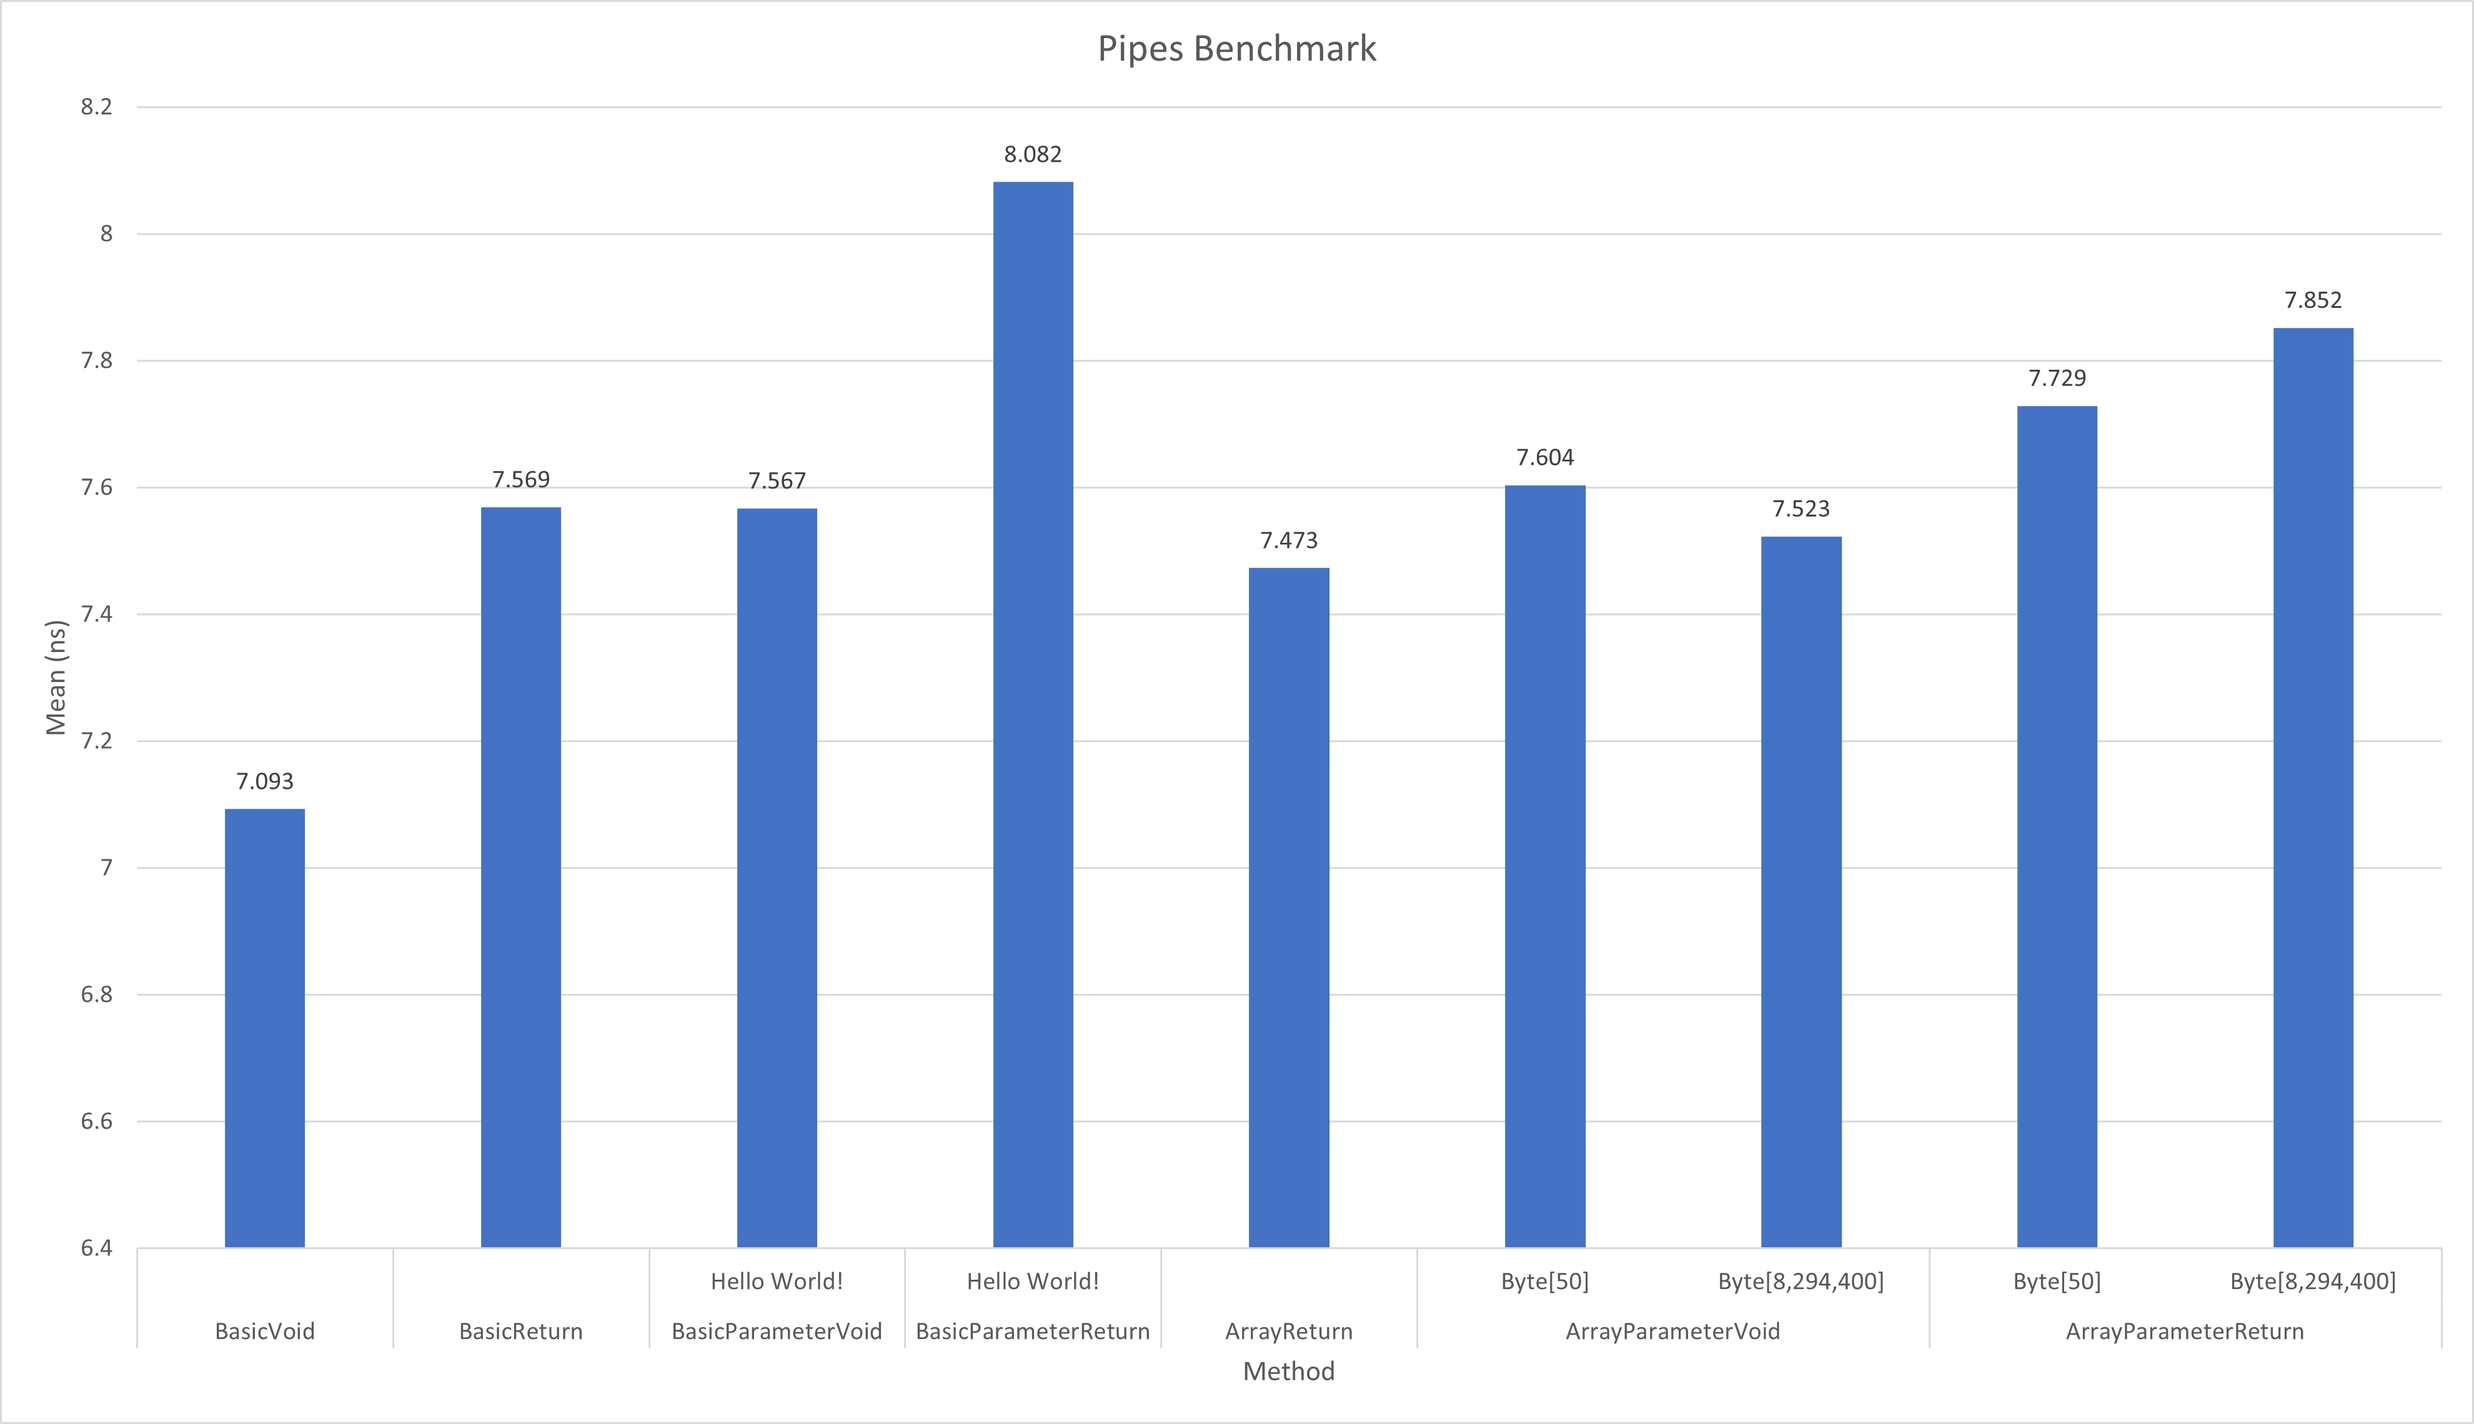
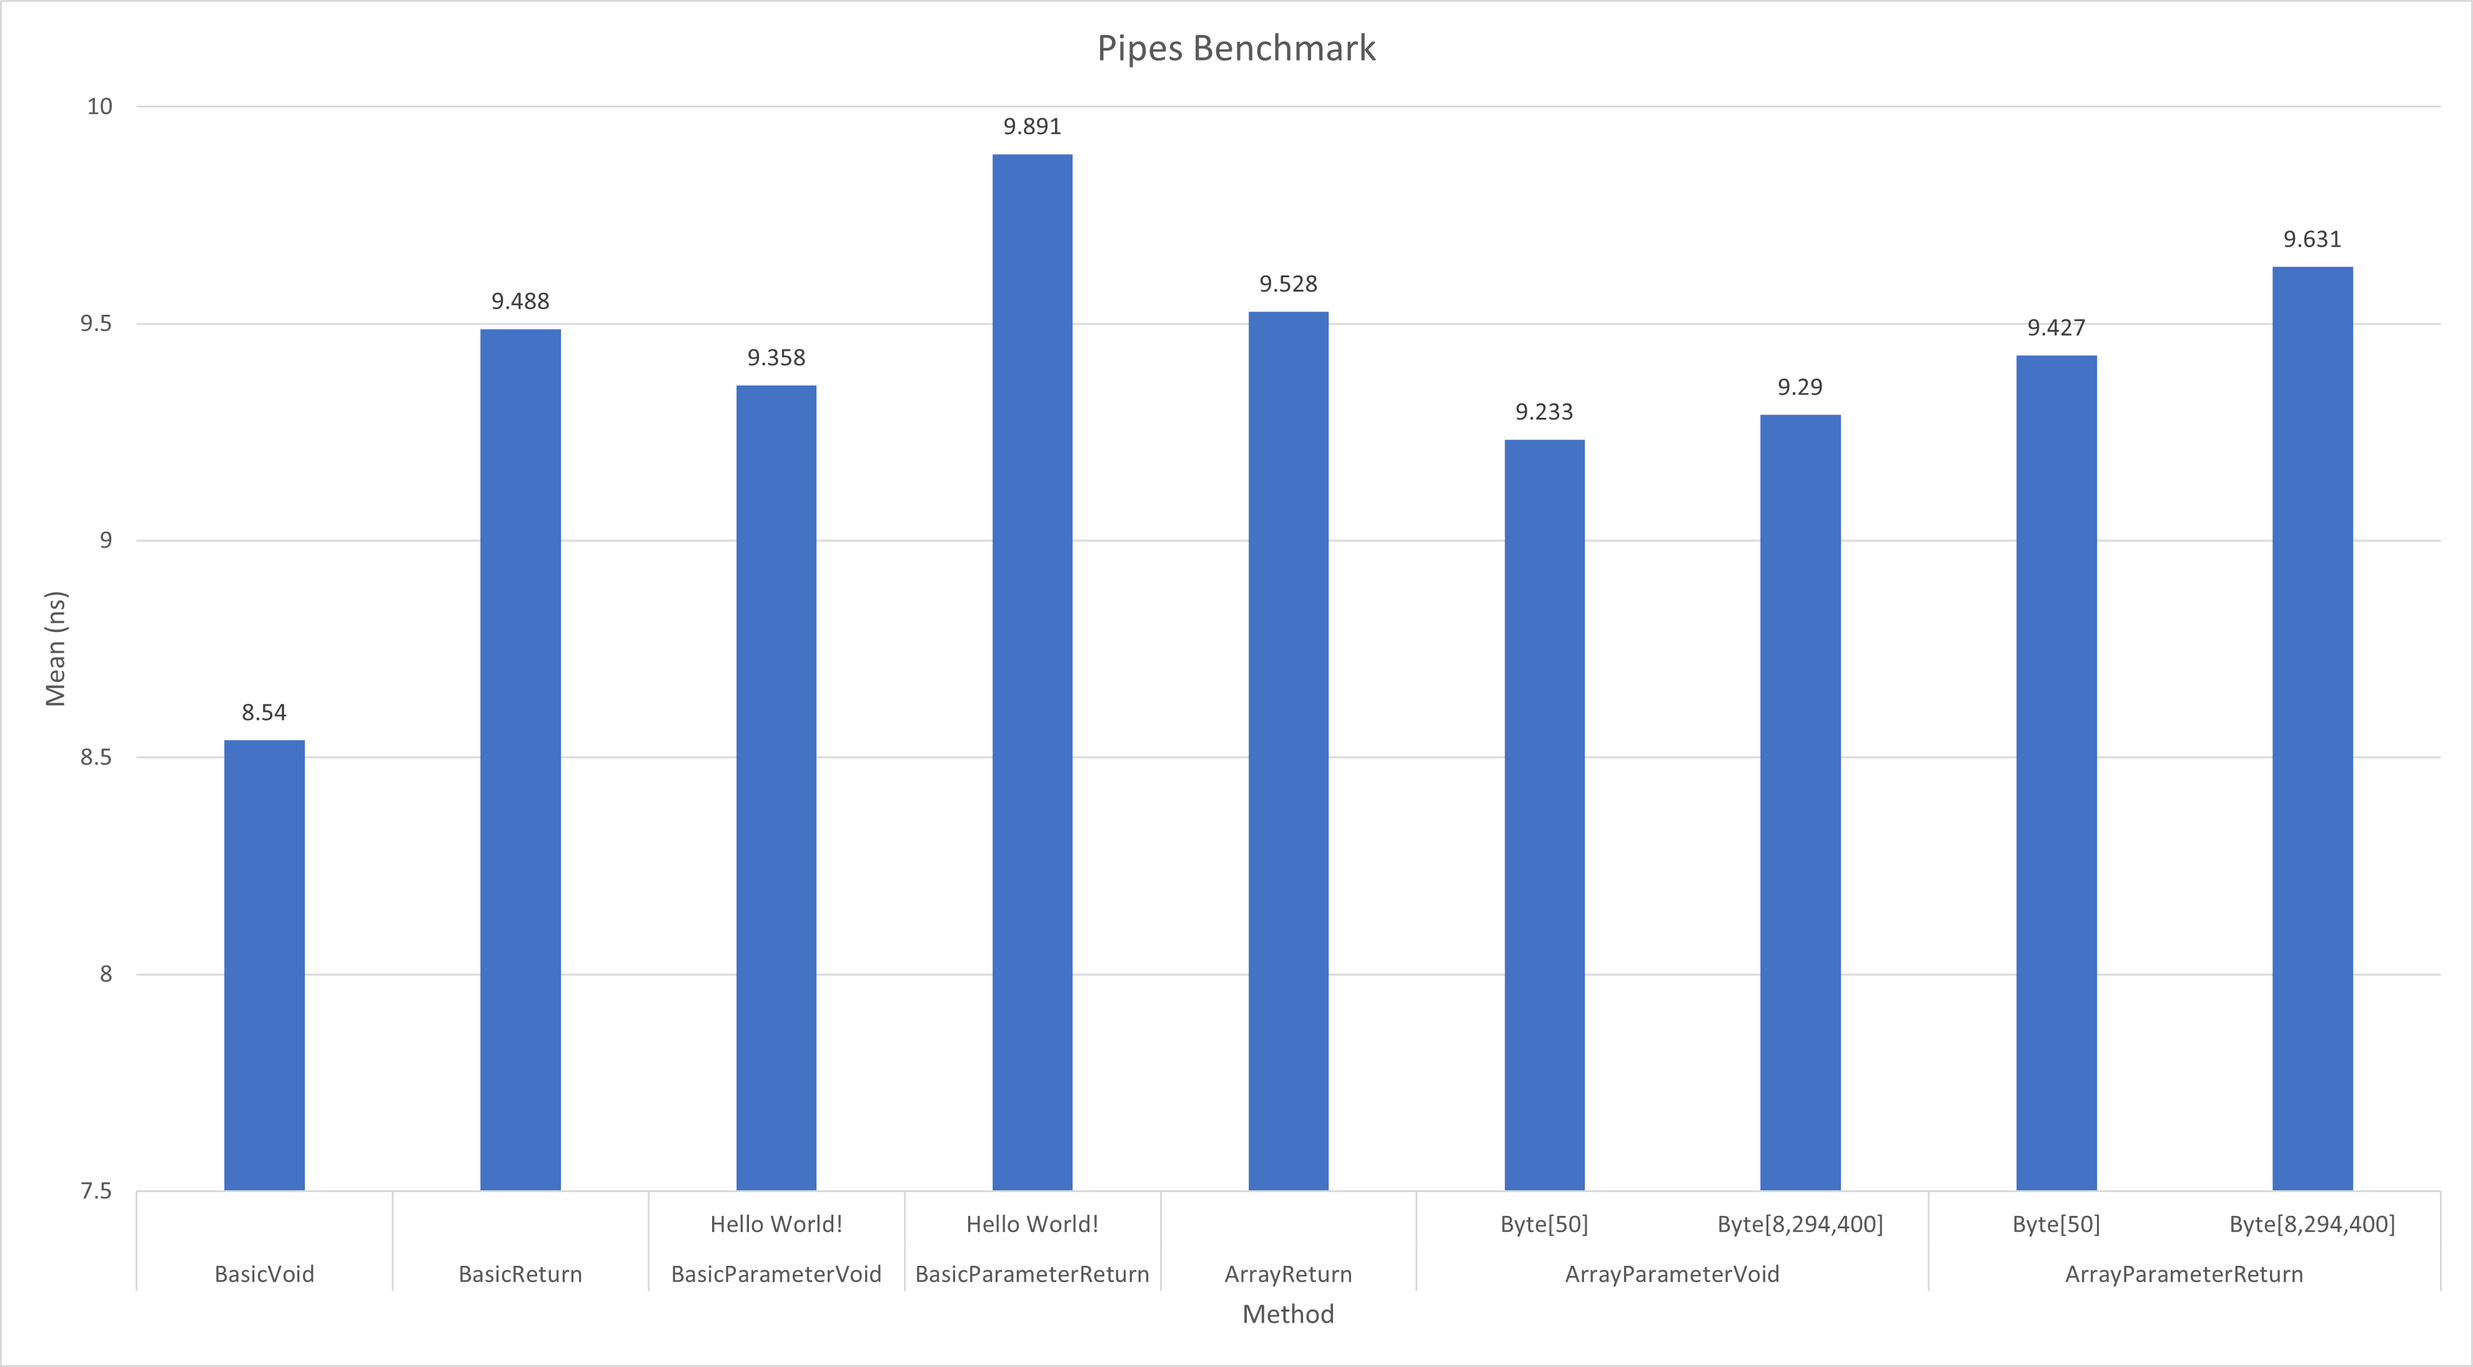
Update benchmarks
* Update docs

diff --git a/src/VoltRpc.Benchmarks/Core/VoltRpcBenchmark.cs b/src/VoltRpc.Benchmarks/Core/VoltRpcBenchmark.cs
@@ -17,6 +17,9 @@ namespace VoltRpc.Benchmarks.Core
 
         private byte[] smallArray;
 
+        private const int smallArraySize = 25;
+        private const int largeArraySize = 1920 * 1080 * 4;
+
         protected VoltRpcBenchmark(Client client, Host host)
         {
             this.client = client;
@@ -34,9 +37,9 @@ namespace VoltRpc.Benchmarks.Core
             client.Connect();
             benchmarkProxy = new BenchmarkProxy(client);
 
-            smallArray = new byte[25];
+            smallArray = new byte[smallArraySize];
             smallArray = Utils.FillByteArray(smallArray);
-            bigArray = new byte[1920 * 1080 * 4];
+            bigArray = new byte[largeArraySize];
             bigArray = Utils.FillByteArray(bigArray);
         }
 
@@ -68,7 +71,7 @@ namespace VoltRpc.Benchmarks.Core
 
         [Benchmark]
         [ArgumentsSource(nameof(GetArray))]
-        public void ArrayParameterVoid(byte[] array)
+        public void ArrayParameterVoid(byte[] array, int arraySize)
         {
             benchmarkProxy.ArrayParameterVoid(array);
         }
@@ -81,15 +84,15 @@ namespace VoltRpc.Benchmarks.Core
 
         [Benchmark]
         [ArgumentsSource(nameof(GetArray))]
-        public byte[] ArrayParameterReturn(byte[] array)
+        public byte[] ArrayParameterReturn(byte[] array, int arraySize)
         {
             return benchmarkProxy.ArrayParameterReturn(array);
         }
 
-        public IEnumerable<byte[]> GetArray()
+        public IEnumerable<object[]> GetArray()
         {
-            yield return smallArray;
-            yield return bigArray;
+            yield return new object[] {smallArray, smallArraySize};
+            yield return new object[] {bigArray, largeArraySize};
         }
 
         public IEnumerable<string> GetMessage()

diff --git a/docs/articles/benchmarks.md b/docs/articles/benchmarks.md
@@ -4,11 +4,11 @@ Benchmarks of VoltRpc.
 
 All benchmarks were performed with this configuration:
 ``` ini
-BenchmarkDotNet=v0.13.0, OS=Windows 10.0.19043.1110 (21H1/May2021Update)
+BenchmarkDotNet=v0.13.1, OS=ubuntu 21.10
 Intel Core i5-10600KF CPU 4.10GHz, 1 CPU, 12 logical and 6 physical cores
-.NET SDK=5.0.302
-  [Host]     : .NET 5.0.8 (5.0.821.31504), X64 RyuJIT
-  Job-GCFSJA : .NET 5.0.8 (5.0.821.31504), X64 RyuJIT
+.NET SDK=6.0.100
+  [Host]     : .NET 6.0.0 (6.0.21.52210), X64 RyuJIT
+  Job-YXCTJF : .NET 6.0.0 (6.0.21.52210), X64 RyuJIT
 
 Jit=Default  Platform=AnyCpu  
 ```
@@ -19,32 +19,33 @@ Jit=Default  Platform=AnyCpu
 
 ## Pipes Benchmark
 
-[![Pipes Benchmark](~/images/benchmarks/PipesBenchmark.png)](~/images/benchmarks/PipesBenchmark.png)
+[![Pipes Benchmark](~/images/Benchmarks/PipesBenchmark.png)](~/images/Benchmarks/PipesBenchmark.png)
 
-|               Method | array         |      message |     Mean |     Error |    StdDev |
-|--------------------- |-------------- |------------- |---------:|----------:|----------:|
-|            BasicVoid |     ?         |            ? | 7.093 μs | 0.0721 μs | 0.0602 μs |
-|          BasicReturn |     ?         |            ? | 7.569 μs | 0.0902 μs | 0.0753 μs |
-|   BasicParameterVoid |     ?         | Hello World! | 7.567 μs | 0.0560 μs | 0.0496 μs |
-| BasicParameterReturn |     ?         | Hello World! | 8.082 μs | 0.1501 μs | 0.1787 μs |
-|          ArrayReturn |     ?         |            ? | 7.473 μs | 0.0374 μs | 0.0312 μs |
-|   ArrayParameterVoid |Byte[50]       |            ? | 7.604 μs | 0.0270 μs | 0.0240 μs |
-|   ArrayParameterVoid |Byte[8,294,400]|            ? | 7.523 μs | 0.0901 μs | 0.0752 μs |
-| ArrayParameterReturn |Byte[50]       |            ? | 7.729 μs | 0.0751 μs | 0.0666 μs |
-| ArrayParameterReturn |Byte[8,294,400]|            ? | 7.852 μs | 0.0625 μs | 0.0585 μs |
+|               Method | array | arraySize |      message |     Mean |     Error |    StdDev |
+|--------------------- |------ |---------- |------------- |---------:|----------:|----------:|
+|            **BasicVoid** |     **?** |         **?** |            **?** | **8.540 μs** | **0.1634 μs** | **0.2125 μs** |
+|          BasicReturn |     ? |         ? |            ? | 9.488 μs | 0.1218 μs | 0.1080 μs |
+|          ArrayReturn |     ? |         ? |            ? | 9.528 μs | 0.1653 μs | 0.1546 μs |
+|   **ArrayParameterVoid** |     **?** |        **25** |            **?** | **9.233 μs** | **0.0999 μs** | **0.0885 μs** |
+| ArrayParameterReturn |     ? |        25 |            ? | 9.427 μs | 0.1529 μs | 0.1636 μs |
+|   **ArrayParameterVoid** |     **?** |   **8294400** |            **?** | **9.290 μs** | **0.1106 μs** | **0.0924 μs** |
+| ArrayParameterReturn |     ? |   8294400 |            ? | 9.631 μs | 0.1637 μs | 0.1531 μs |
+|   **BasicParameterVoid** |     **?** |         **?** | **Hello World!** | **9.358 μs** | **0.1194 μs** | **0.1116 μs** |
+| BasicParameterReturn |     ? |         ? | Hello World! | 9.891 μs | 0.1478 μs | 0.1383 μs |
+
 
 ## TCP Benchmark
 
-[![TCP Benchmark](~/images/benchmarks/TCPBenchmark.png)](~/images/benchmarks/TCPBenchmark.png)
+[![TCP Benchmark](~/images/Benchmarks/TCPBenchmark.png)](~/images/Benchmarks/TCPBenchmark.png)
 
-|               Method | array         |      message |     Mean |     Error |    StdDev |
-|--------------------- |-------------- |------------- |---------:|----------:|----------:|
-|            BasicVoid |     ?         |            ? | 12.01 μs | 0.072 μs  | 0.067 μs  |
-|          BasicReturn |     ?         |            ? | 12.61 μs | 0.065 μs  | 0.061 μs  |
-|   BasicParameterVoid |     ?         | Hello World! | 12.35 μs | 0.053 μs  | 0.050 μs  |
-| BasicParameterReturn |     ?         | Hello World! | 12.39 μs | 0.066 μs  | 0.062 μs  |
-|          ArrayReturn |     ?         |            ? | 12.54 μs | 0.048 μs  | 0.040 μs  |
-|   ArrayParameterVoid |Byte[50]       |            ? | 12.61 μs | 0.062 μs  | 0.058 μs  |
-|   ArrayParameterVoid |Byte[8,294,400]|            ? | 12.62 μs | 0.087 μs  | 0.082 μs  |
-| ArrayParameterReturn |Byte[50]       |            ? | 13.30 μs | 0.265 μs  | 0.248 μs  |
-| ArrayParameterReturn |Byte[8,294,400]|            ? | 13.44 μs | 0.084 μs  | 0.079 μs  |
+|               Method | array | arraySize |      message |     Mean |    Error |   StdDev |
+|--------------------- |------ |---------- |------------- |---------:|---------:|---------:|
+|            **BasicVoid** |     **?** |         **?** |            **?** | **23.72 μs** | **0.355 μs** | **0.332 μs** |
+|          BasicReturn |     ? |         ? |            ? | 25.02 μs | 0.421 μs | 0.394 μs |
+|          ArrayReturn |     ? |         ? |            ? | 25.28 μs | 0.322 μs | 0.301 μs |
+|   **ArrayParameterVoid** |     **?** |        **25** |            **?** | **25.20 μs** | **0.275 μs** | **0.257 μs** |
+| ArrayParameterReturn |     ? |        25 |            ? | 25.76 μs | 0.370 μs | 0.328 μs |
+|   **ArrayParameterVoid** |     **?** |   **8294400** |            **?** | **24.93 μs** | **0.236 μs** | **0.220 μs** |
+| ArrayParameterReturn |     ? |   8294400 |            ? | 25.22 μs | 0.468 μs | 0.438 μs |
+|   **BasicParameterVoid** |     **?** |         **?** | **Hello World!** | **23.53 μs** | **0.432 μs** | **0.404 μs** |
+| BasicParameterReturn |     ? |         ? | Hello World! | 25.08 μs | 0.496 μs | 0.944 μs |

diff --git a/README.md b/README.md
@@ -142,28 +142,28 @@ namespace VoltRpcExample.Client
 ## Benchmarks
 
 ``` ini
-BenchmarkDotNet=v0.13.0, OS=Windows 10.0.19043.1110 (21H1/May2021Update)
+BenchmarkDotNet=v0.13.1, OS=ubuntu 21.10
 Intel Core i5-10600KF CPU 4.10GHz, 1 CPU, 12 logical and 6 physical cores
-.NET SDK=5.0.302
-  [Host]     : .NET 5.0.8 (5.0.821.31504), X64 RyuJIT
-  Job-GCFSJA : .NET 5.0.8 (5.0.821.31504), X64 RyuJIT
+.NET SDK=6.0.100
+  [Host]     : .NET 6.0.0 (6.0.21.52210), X64 RyuJIT
+  Job-YXCTJF : .NET 6.0.0 (6.0.21.52210), X64 RyuJIT
 
 Jit=Default  Platform=AnyCpu  
 ```
 
 ![Pipes Benchmark](media/PipesBenchmark.png)
 
-|               Method | array         |      message |     Mean |     Error |    StdDev |
-|--------------------- |-------------- |------------- |---------:|----------:|----------:|
-|            BasicVoid |     ?         |            ? | 7.093 μs | 0.0721 μs | 0.0602 μs |
-|          BasicReturn |     ?         |            ? | 7.569 μs | 0.0902 μs | 0.0753 μs |
-|   BasicParameterVoid |     ?         | Hello World! | 7.567 μs | 0.0560 μs | 0.0496 μs |
-| BasicParameterReturn |     ?         | Hello World! | 8.082 μs | 0.1501 μs | 0.1787 μs |
-|          ArrayReturn |     ?         |            ? | 7.473 μs | 0.0374 μs | 0.0312 μs |
-|   ArrayParameterVoid |Byte[50]       |            ? | 7.604 μs | 0.0270 μs | 0.0240 μs |
-|   ArrayParameterVoid |Byte[8,294,400]|            ? | 7.523 μs | 0.0901 μs | 0.0752 μs |
-| ArrayParameterReturn |Byte[50]       |            ? | 7.729 μs | 0.0751 μs | 0.0666 μs |
-| ArrayParameterReturn |Byte[8,294,400]|            ? | 7.852 μs | 0.0625 μs | 0.0585 μs |
+|               Method | array | arraySize |      message |     Mean |     Error |    StdDev |
+|--------------------- |------ |---------- |------------- |---------:|----------:|----------:|
+|            **BasicVoid** |     **?** |         **?** |            **?** | **8.540 μs** | **0.1634 μs** | **0.2125 μs** |
+|          BasicReturn |     ? |         ? |            ? | 9.488 μs | 0.1218 μs | 0.1080 μs |
+|          ArrayReturn |     ? |         ? |            ? | 9.528 μs | 0.1653 μs | 0.1546 μs |
+|   **ArrayParameterVoid** |     **?** |        **25** |            **?** | **9.233 μs** | **0.0999 μs** | **0.0885 μs** |
+| ArrayParameterReturn |     ? |        25 |            ? | 9.427 μs | 0.1529 μs | 0.1636 μs |
+|   **ArrayParameterVoid** |     **?** |   **8294400** |            **?** | **9.290 μs** | **0.1106 μs** | **0.0924 μs** |
+| ArrayParameterReturn |     ? |   8294400 |            ? | 9.631 μs | 0.1637 μs | 0.1531 μs |
+|   **BasicParameterVoid** |     **?** |         **?** | **Hello World!** | **9.358 μs** | **0.1194 μs** | **0.1116 μs** |
+| BasicParameterReturn |     ? |         ? | Hello World! | 9.891 μs | 0.1478 μs | 0.1383 μs |
 
 For more info on these benchmarks see [Benchmarks](https://voltrpc.voltstro.dev/articles/benchmarks).
 

diff --git a/docs/index.md b/docs/index.md
@@ -1,4 +1,6 @@
-<img align="right" width="15%" src="images/icon.svg">
+<div style="padding: 8px;">
+  <img align="right" width="15%" src="images/icon.svg">
+</div>
 
 # VoltRpc
 
@@ -24,19 +26,19 @@ VoltRpc is a library designed for high performance RPC communication. It can use
 
 ## Benchmarks
 
-[![Pipes Benchmark](~/images/benchmarks/PipesBenchmark.png)](~/images/benchmarks/PipesBenchmark.png)
+[![Pipes Benchmark](~/images/Benchmarks/PipesBenchmark.png)](~/images/Benchmarks/PipesBenchmark.png)
 
-|               Method | array         |      message |     Mean |     Error |    StdDev |
-|--------------------- |-------------- |------------- |---------:|----------:|----------:|
-|            BasicVoid |     ?         |            ? | 7.093 μs | 0.0721 μs | 0.0602 μs |
-|          BasicReturn |     ?         |            ? | 7.569 μs | 0.0902 μs | 0.0753 μs |
-|   BasicParameterVoid |     ?         | Hello World! | 7.567 μs | 0.0560 μs | 0.0496 μs |
-| BasicParameterReturn |     ?         | Hello World! | 8.082 μs | 0.1501 μs | 0.1787 μs |
-|          ArrayReturn |     ?         |            ? | 7.473 μs | 0.0374 μs | 0.0312 μs |
-|   ArrayParameterVoid |Byte[50]       |            ? | 7.604 μs | 0.0270 μs | 0.0240 μs |
-|   ArrayParameterVoid |Byte[8,294,400]|            ? | 7.523 μs | 0.0901 μs | 0.0752 μs |
-| ArrayParameterReturn |Byte[50]       |            ? | 7.729 μs | 0.0751 μs | 0.0666 μs |
-| ArrayParameterReturn |Byte[8,294,400]|            ? | 7.852 μs | 0.0625 μs | 0.0585 μs |
+|               Method | array | arraySize |      message |     Mean |     Error |    StdDev |
+|--------------------- |------ |---------- |------------- |---------:|----------:|----------:|
+|            **BasicVoid** |     **?** |         **?** |            **?** | **8.540 μs** | **0.1634 μs** | **0.2125 μs** |
+|          BasicReturn |     ? |         ? |            ? | 9.488 μs | 0.1218 μs | 0.1080 μs |
+|          ArrayReturn |     ? |         ? |            ? | 9.528 μs | 0.1653 μs | 0.1546 μs |
+|   **ArrayParameterVoid** |     **?** |        **25** |            **?** | **9.233 μs** | **0.0999 μs** | **0.0885 μs** |
+| ArrayParameterReturn |     ? |        25 |            ? | 9.427 μs | 0.1529 μs | 0.1636 μs |
+|   **ArrayParameterVoid** |     **?** |   **8294400** |            **?** | **9.290 μs** | **0.1106 μs** | **0.0924 μs** |
+| ArrayParameterReturn |     ? |   8294400 |            ? | 9.631 μs | 0.1637 μs | 0.1531 μs |
+|   **BasicParameterVoid** |     **?** |         **?** | **Hello World!** | **9.358 μs** | **0.1194 μs** | **0.1116 μs** |
+| BasicParameterReturn |     ? |         ? | Hello World! | 9.891 μs | 0.1478 μs | 0.1383 μs |
 
 For more info on these benchmarks see [Benchmarks](articles/benchmarks.md).
 
